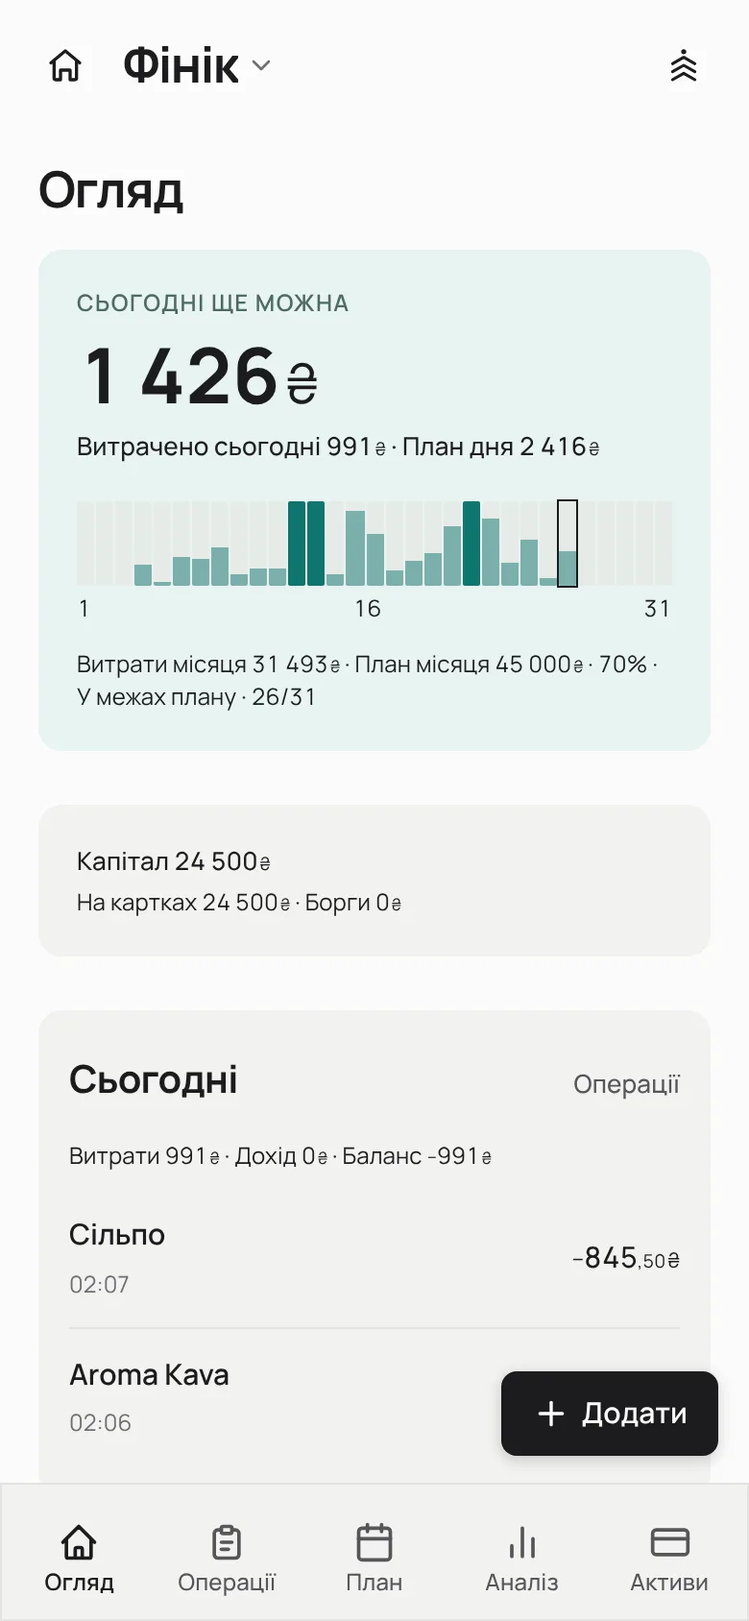
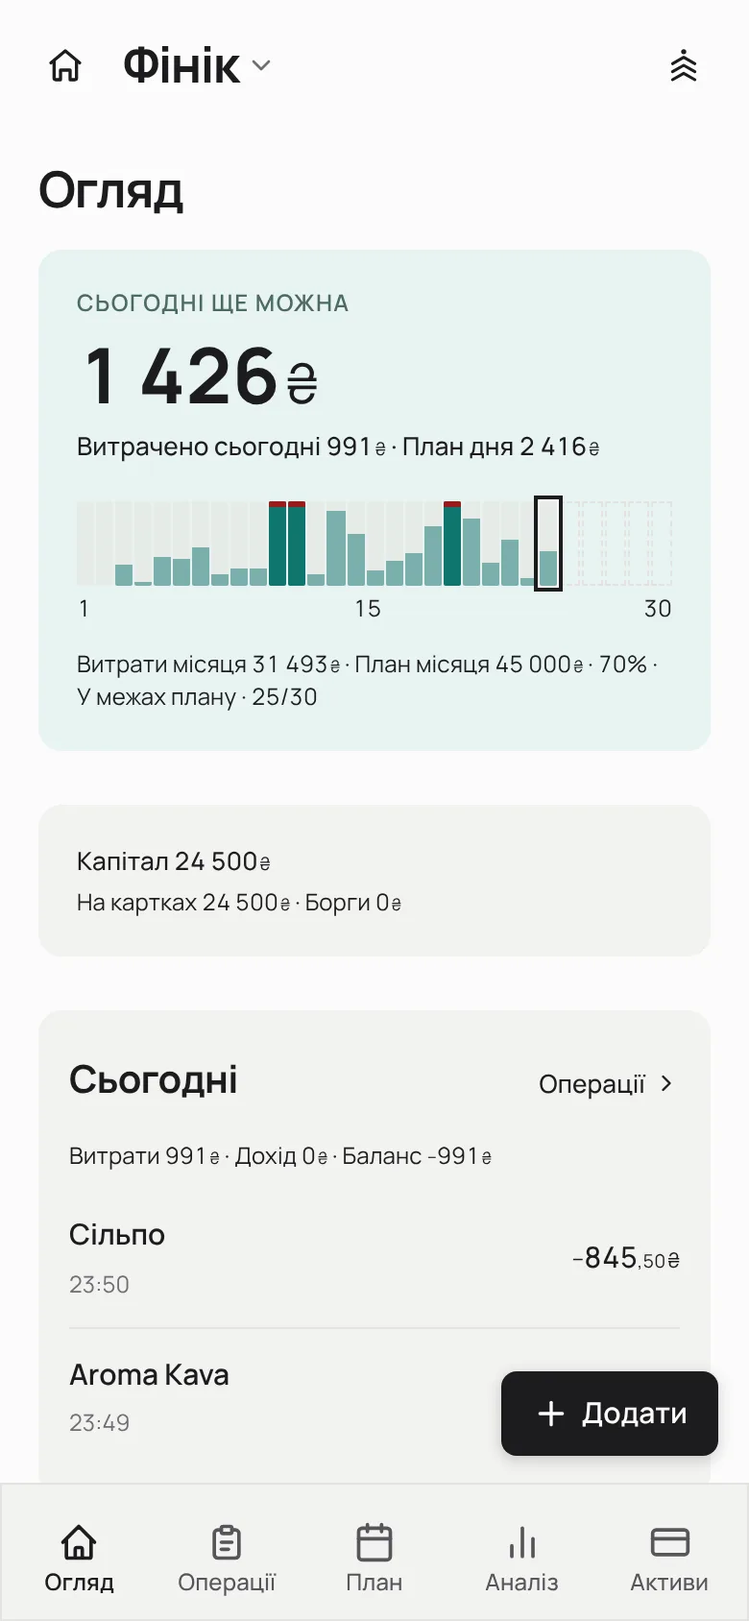
docs(docs): «ШІ» в глосарії стайлгайду і свіжі кадри hero лендингу
Глосарій §11: штучний інтелект у копії — «ШІ» (рішення власника
2026-11-25), SEO-виняток для title/description і llms.txt лишається.
Кадри hero-finyk і hero-routine перезнято після #1724/#1726; сценарій
ховає кнопку черги синхронізації, якої в живого користувача немає.

Claude-Session: https://claude.ai/code/session_01VCCW6nnMCoHBk2YFs5cpD4

diff --git a/apps/web/tests/__shots__/landing.spec.ts b/apps/web/tests/__shots__/landing.spec.ts
@@ -24,6 +24,20 @@ async function dropAnonymousBanner(page: Page) {
     .evaluateAll((els) => els.forEach((el) => el.remove()));
 }
 
+/**
+ * Сід світу пишеться в чергу синхронізації, а бекенду в знімальному прогоні
+ * немає, тож у шапці висить кнопка «Синхронізація · N в черзі». У живого
+ * користувача черга порожня, і кнопки там немає.
+ */
+async function dropSyncQueueButton(page: Page) {
+  // Стилем, а не видаленням вузла: шапка перемальовує кнопку при кожному
+  // тіку черги, і видалений вузол повертається ще до кадру.
+  await page.addStyleTag({
+    content:
+      'button[aria-label^="Синхронізація"] { display: none !important; }',
+  });
+}
+
 /** Огляд Фініка із заданим планом: без плану hero показує «Денний бюджет не задано». */
 async function finykWithPlan(page: Page) {
   await applyScenario(page, "landing-world", "/finyk/budgets");
@@ -51,6 +65,7 @@ for (const [name, open] of FRAMES) {
     const decline = page.getByRole("button", { name: "Ні, дякую" });
     if (await decline.isVisible().catch(() => false)) await decline.click();
     await dropAnonymousBanner(page);
+    await dropSyncQueueButton(page);
     await page.waitForTimeout(1500);
     const png = await page.screenshot();
     await sharp(png).webp({ quality: 82 }).toFile(`${OUT}/${name}.webp`);

diff --git a/docs/open-work.md b/docs/open-work.md
@@ -11,9 +11,9 @@
 
 **Колонки.** `Документ` — шлях відносно директорії трекера. `Статус` — повний текст `Status:` хедера (truncated до 180 символів; `❓` = `unknown` бакет, треба полагодити header). `PR-згадки` — auto-extracted `#NNNN` згадки (3–5 цифр, без провідного нуля, не приклеєні до сусідніх літер/цифр — тож hex-кольори `#14100e`, якорі `file.md#141-…` і zero-padded мітки `PR #052b` сюди не потрапляють; deduped, sorted ascending, перші 10 показано). Це навігаційні згадки з документа, не live-стан GitHub PR. Ініціативи й Plans мають додатково: `Agent-ready` (🟢 yes / 🟡 needs-decision / 🔴 blocked — рядки сортуються `yes` → `needs-decision` → `blocked`), `Skill` (canonical Sergeant specialist skill) і `Playbook` (best-fit playbook). Останні дві — heuristic suggestions з [`scripts/docs/skill-mapping.json`](../scripts/docs/skill-mapping.json), editable вручну.
 
-**Усього відкритих документів:** **51** — Активні спеки: **51**.
+**Усього відкритих документів:** **52** — Активні спеки: **52**.
 
-## Активні спеки (51)
+## Активні спеки (52)
 
 > Єдиний каталог активної роботи; підкаталоги зберігають жанр і предметну область.
 
@@ -21,7 +21,7 @@
 | ----------------------------------------------------------------------------------------------------------------------- | ------------------------------------------------------------------------------------------------------------------------------------------------------------------------------------- | --------------------------------------------------------------------------------------------------------------------------------------------------------------------------------------------------------------------------------------------------------------------------------------------------------------------------------------------------------------------------------------------------------------------------------------------------------------------------------------------------------------------------------------------------------------------------------------------- |
 | [`accessibility-low-vision-beta.md`](./work/specs/accessibility-low-vision-beta.md)                                     | Active — база готова, лишились ручна перевірка на пристроях і виявлені нею фікси.                                                                                                     | [#519](https://github.com/Skords-01/Sergeant/pull/519)                                                                                                                                                                                                                                                                                                                                                                                                                                                                                                                                        |
 | [`ai-cost-ceiling.md`](./work/specs/ai-cost-ceiling.md)                                                                 | Active (Ф1 виконано 2026-10-01 з відкритим питанням до сирого payload-у; Ф2 чекає тиждень після деплою; Ф3 заблокована числом із Ф2)                                                  | —                                                                                                                                                                                                                                                                                                                                                                                                                                                                                                                                                                                             |
-| [`anonymous-migration-fast-path.md`](./work/specs/anonymous-migration-fast-path.md)                                     | Active - затверджено рішенням власника 2026-11-21: усі блокери Q1-Q6 закрито (див. § Блокери). Наступна дія: PR2 (шар даних варіанта B), потім окремим PR3 (швидкий шлях гейта).      | [#1415](https://github.com/Skords-01/Sergeant/pull/1415) [#1417](https://github.com/Skords-01/Sergeant/pull/1417)                                                                                                                                                                                                                                                                                                                                                                                                                                                                             |
+| [`anonymous-migration-fast-path.md`](./work/specs/anonymous-migration-fast-path.md)                                     | Active - затверджено рішенням власника 2026-11-21. PR1 (preflight) і PR2 (прапорець у тіньовому режимі) у коді, див. § Стан виконання. Наступна дія: PR3 (швидкий шлях гейта), лише…  | [#1415](https://github.com/Skords-01/Sergeant/pull/1415) [#1417](https://github.com/Skords-01/Sergeant/pull/1417)                                                                                                                                                                                                                                                                                                                                                                                                                                                                             |
 | [`audits/2026-07-31-legal-docs-beta-readiness.md`](./work/specs/audits/2026-07-31-legal-docs-beta-readiness.md)         | Active                                                                                                                                                                                | —                                                                                                                                                                                                                                                                                                                                                                                                                                                                                                                                                                                             |
 | [`audits/2026-08-05-external-critique-surface.md`](./work/specs/audits/2026-08-05-external-critique-surface.md)         | Active                                                                                                                                                                                | [#635](https://github.com/Skords-01/Sergeant/pull/635) [#887](https://github.com/Skords-01/Sergeant/pull/887)                                                                                                                                                                                                                                                                                                                                                                                                                                                                                 |
 | [`audits/2026-08-05-lost-commits-audit.md`](./work/specs/audits/2026-08-05-lost-commits-audit.md)                       | Active — у §3 відкриті `CMP-74`, хвиля 18, `claude/spec-fab-manual-income` і §3.3; після їх закриття перевести у Reference.                                                           | [#308](https://github.com/Skords-01/Sergeant/pull/308) [#309](https://github.com/Skords-01/Sergeant/pull/309) [#324](https://github.com/Skords-01/Sergeant/pull/324) [#419](https://github.com/Skords-01/Sergeant/pull/419) [#420](https://github.com/Skords-01/Sergeant/pull/420) [#562](https://github.com/Skords-01/Sergeant/pull/562) [#567](https://github.com/Skords-01/Sergeant/pull/567) [#571](https://github.com/Skords-01/Sergeant/pull/571) [#594](https://github.com/Skords-01/Sergeant/pull/594)                                                                                |
@@ -36,6 +36,7 @@
 | [`audits/2026-10-01-full-app-audit/reliability.md`](./work/specs/audits/2026-10-01-full-app-audit/reliability.md)       | Active. 64 кластери (91 знахідка) за першопричиною. Загальний план, метод і обмеження — у [README](./work/specs/audits/2026-10-01-full-app-audit/README.md).                          | [#1333](https://github.com/Skords-01/Sergeant/pull/1333) [#1334](https://github.com/Skords-01/Sergeant/pull/1334) [#1347](https://github.com/Skords-01/Sergeant/pull/1347) [#1348](https://github.com/Skords-01/Sergeant/pull/1348) [#1372](https://github.com/Skords-01/Sergeant/pull/1372) [#1387](https://github.com/Skords-01/Sergeant/pull/1387) [#1388](https://github.com/Skords-01/Sergeant/pull/1388) [#1389](https://github.com/Skords-01/Sergeant/pull/1389) [#1393](https://github.com/Skords-01/Sergeant/pull/1393) [#1396](https://github.com/Skords-01/Sergeant/pull/1396) +21 |
 | [`audits/2026-10-01-full-app-audit/security.md`](./work/specs/audits/2026-10-01-full-app-audit/security.md)             | Active. 63 кластери (97 знахідок) за першопричиною. Загальний план, метод і обмеження — у [README](./work/specs/audits/2026-10-01-full-app-audit/README.md).                          | [#1308](https://github.com/Skords-01/Sergeant/pull/1308) [#1327](https://github.com/Skords-01/Sergeant/pull/1327) [#1329](https://github.com/Skords-01/Sergeant/pull/1329) [#1332](https://github.com/Skords-01/Sergeant/pull/1332) [#1340](https://github.com/Skords-01/Sergeant/pull/1340) [#1346](https://github.com/Skords-01/Sergeant/pull/1346) [#1347](https://github.com/Skords-01/Sergeant/pull/1347) [#1350](https://github.com/Skords-01/Sergeant/pull/1350) [#1365](https://github.com/Skords-01/Sergeant/pull/1365) [#1366](https://github.com/Skords-01/Sergeant/pull/1366) +10 |
 | [`audits/2026-10-01-full-app-audit/ux-a11y.md`](./work/specs/audits/2026-10-01-full-app-audit/ux-a11y.md)               | Active. 89 кластерів (125 знахідок) за першопричиною. Загальний план, метод і обмеження — у [README](./work/specs/audits/2026-10-01-full-app-audit/README.md).                        | [#1314](https://github.com/Skords-01/Sergeant/pull/1314) [#1370](https://github.com/Skords-01/Sergeant/pull/1370) [#1406](https://github.com/Skords-01/Sergeant/pull/1406) [#1409](https://github.com/Skords-01/Sergeant/pull/1409) [#1410](https://github.com/Skords-01/Sergeant/pull/1410) [#1411](https://github.com/Skords-01/Sergeant/pull/1411) [#1412](https://github.com/Skords-01/Sergeant/pull/1412) [#1448](https://github.com/Skords-01/Sergeant/pull/1448) [#1449](https://github.com/Skords-01/Sergeant/pull/1449) [#1470](https://github.com/Skords-01/Sergeant/pull/1470) +10 |
+| [`audits/2026-11-25-copy-visual-audit.md`](./work/specs/audits/2026-11-25-copy-visual-audit.md)                         | Draft                                                                                                                                                                                 | [#1724](https://github.com/Skords-01/Sergeant/pull/1724)                                                                                                                                                                                                                                                                                                                                                                                                                                                                                                                                      |
 | [`audits/ai-abuse-2026-08-05.md`](./work/specs/audits/ai-abuse-2026-08-05.md)                                           | Active - A5 відкладено (рішення власника 2026-11-21): перемикач `ANTHROPIC_BUDGET_HARD_DEGRADE_ALL` і денний ліміт Pro чекають числа з фази 2 [`ai-cost-ceiling.md`](./work/specs/a…  | —                                                                                                                                                                                                                                                                                                                                                                                                                                                                                                                                                                                             |
 | [`audits/ai-pipeline-2026-08-05.md`](./work/specs/audits/ai-pipeline-2026-08-05.md)                                     | Active - Наступна дія: ревалідувати B4-B29 проти `main` і позначити закриті (пріоритет B26, B25, B27; B13 і B14, схоже, вже закриті; B21 закрито 2026-09-29, див. § B21).             | [#627](https://github.com/Skords-01/Sergeant/pull/627) [#928](https://github.com/Skords-01/Sergeant/pull/928)                                                                                                                                                                                                                                                                                                                                                                                                                                                                                 |
 | [`audits/ai-testing-2026-08-25.md`](./work/specs/audits/ai-testing-2026-08-25.md)                                       | Active - усі 11 знахідок цього аудиту в реєстрі закрито кодом (`fixed-pending-verification`), живого перепрогону стендів немає.                                                       | [#858](https://github.com/Skords-01/Sergeant/pull/858)                                                                                                                                                                                                                                                                                                                                                                                                                                                                                                                                        |

diff --git a/docs/product/copy/style-guide.uk.md b/docs/product/copy/style-guide.uk.md
@@ -1,6 +1,6 @@
 # Sergeant — Content Style Guide (UA)
 
-> **Last touched:** 2026-11-21 by @claude (§2: листи від компанії говорять «ми», рішення власника 2026-11-21, TXT-5); 2026-10-09 by @claude (редизайн v3 PR0: §9 заголовок не питання, плейсхолдер лише голий іменник; раніше 2026-09-17: §7 + десять рядків з аудиту копії сайту: заяви про чесність, антитези, максими, метатекст, інженерні деталі, changelog, підсилювачі, ехо «той самий», заголовки-лічильники, вигадані цитати; §1.9 — абзац про тире-поворот; того ж дня раніше — вказівники «винеси в `uk.ts`» → `uk.core.ts` / модульний `uk.<module>.ts`; §8 «час дня» розведено на показ/звіти = Kyiv і день-ключ/форми = пристрій за ADR-0078; 2026-09-16 — перегляд по секціях проти `uk.core.ts` і лінтів `ukrainian-copy` / `no-cyrillic-jsx-literal`, приклади приведено до власних правил 9–10). **Next review:** 2026-12-16.
+> **Last touched:** 2026-11-25 by @claude (§11: штучний інтелект у копії — «ШІ», не «AI», рішення власника 2026-11-25); 2026-11-21 by @claude (§2: листи від компанії говорять «ми», рішення власника 2026-11-21, TXT-5); 2026-10-09 by @claude (редизайн v3 PR0: §9 заголовок не питання, плейсхолдер лише голий іменник; раніше 2026-09-17: §7 + десять рядків з аудиту копії сайту: заяви про чесність, антитези, максими, метатекст, інженерні деталі, changelog, підсилювачі, ехо «той самий», заголовки-лічильники, вигадані цитати; §1.9 — абзац про тире-поворот; того ж дня раніше — вказівники «винеси в `uk.ts`» → `uk.core.ts` / модульний `uk.<module>.ts`; §8 «час дня» розведено на показ/звіти = Kyiv і день-ключ/форми = пристрій за ADR-0078; 2026-09-16 — перегляд по секціях проти `uk.core.ts` і лінтів `ukrainian-copy` / `no-cyrillic-jsx-literal`, приклади приведено до власних правил 9–10). **Next review:** 2026-12-16.
 > **Status:** Active
 
 Канонічні правила tone-of-voice для всієї UA-копії в продукті — UI strings, toast-и, error messages, empty states, onboarding, FTUX, settings. Витяг із i18n-каталогу `apps/web/src/shared/i18n/uk.ts` (PR-30 / PR-31 — uxroast 2026-Q2; з 2026-09-12 каталог розкладено на `uk.core.ts` + модульні `uk.<module>.ts`, `uk.ts` їх лише зшиває) + урок-кейси з аудит-проходів.
@@ -292,8 +292,8 @@ states) лишаються на «я».
 
 | Сутність                          | Слово в UI                                                                                                                                                       | Не вживати / примітка                                                                                                                                                                                                                                                                                                                                                                                                          |
 | --------------------------------- | ---------------------------------------------------------------------------------------------------------------------------------------------------------------- | ------------------------------------------------------------------------------------------------------------------------------------------------------------------------------------------------------------------------------------------------------------------------------------------------------------------------------------------------------------------------------------------------------------------------------ |
-| Штучний інтелект                  | **AI** (латиницею)                                                                                                                                               | «ШІ». Канонічний рядок авторства: «Відповідає AI, а не людина».                                                                                                                                                                                                                                                                                                                                                                |
-| Асистент як дійова особа          | **Сержант**                                                                                                                                                      | «асистент», «AI-асистент», «AI-помічник». Латиниця «Sergeant» лише як назва продукту (застосунок, база, сесія, вкладки), не як той, хто щось робить: «Сержант покаже», але «база Sergeant». Звʼязки між сферами рахує застосунок без AI, тож там дійова особа «застосунок», а не «Сержант». На сайті «AI-помічник» лишається лише в title і description маршрутів і в `llms.txt` як SEO-виняток (рішення власника 2026-09-26). |
+| Штучний інтелект                  | **ШІ**                                                                                                                                                           | «AI» латиницею (рішення власника 2026-11-25 замінило рішення 2026-09-24). Канонічний рядок авторства: «Відповідає ШІ, не людина». Складені форми: «провайдер ШІ», «памʼять ШІ», «скани чеків ШІ». Виняток лише SEO: title і description маршрутів сайту та `llms.txt`, де люди шукають «AI».                                                                                                                                   |
+| Асистент як дійова особа          | **Сержант**                                                                                                                                                      | «асистент», «ШІ-асистент», «AI-помічник». Латиниця «Sergeant» лише як назва продукту (застосунок, база, сесія, вкладки), не як той, хто щось робить: «Сержант покаже», але «база Sergeant». Звʼязки між сферами рахує застосунок без AI, тож там дійова особа «застосунок», а не «Сержант». На сайті «AI-помічник» лишається лише в title і description маршрутів і в `llms.txt` як SEO-виняток (рішення власника 2026-09-26). |
 | Оплата                            | **план** = те, що обираєш («безкоштовний план», «Premium»); **підписка** = те, що платиш і скасовуєш                                                             | «тариф». Склад Premium на сайті береться з `apps/landing/src/content/premiumClaim.ts`.                                                                                                                                                                                                                                                                                                                                         |
 | Тижневий звіт                     | **звіт тижня**                                                                                                                                                   | «дайджест» лишається тільки назвою формату сторіс, не синонімом звіту. «Тижневий підсумок» не вживати і на сайті (адреса гайду `/guides/tyzhnevyi-pidsumok` лишається).                                                                                                                                                                                                                                                        |
 | Рядок у списку Фініка             | **операція** (список, порожні стани, кнопки)                                                                                                                     | «запис», «транзакція». Зведено 2026-09-25 скрізь, де текст бачить людина, включно з банківським контекстом і результатами інструментів чату. З 2026-09-25 так само кажуть описи інструментів і промпти для моделі; «транзакція» лишається лише в SQL, у репліках користувача в евал-кейсах і в пошукових ключових словах (як синонім). Прикметник «транзакційні» (листи) означає інше і не міняється.                          |

diff --git a/docs/STATUS.md b/docs/STATUS.md
@@ -33,11 +33,11 @@
 - [#78](https://bitbucket.org/skords01/sergeant/pull-requests/78) — fix(web): копі сайту за аудитом: глосарій, жаргон, факт у Політиці приватності _(2026-09-26)_
 - [#61](https://bitbucket.org/skords01/sergeant/pull-requests/61) — docs(docs): синк реєстру PR (#41-#64) _(2026-09-26)_
 
-## 🔵 В роботі — 51 відкритий документ
+## 🔵 В роботі — 52 відкриті документи
 
 | Трекер        | Відкрито |
 | ------------- | -------- |
-| Активні спеки | 51       |
+| Активні спеки | 52       |
 
 **Найактивніше (8, за останніми PR):**
 

diff --git a/apps/web/tests/__shots__/README.md b/apps/web/tests/__shots__/README.md
@@ -47,4 +47,4 @@ pnpm --filter @sergeant/web exec playwright test --config playwright.shots.confi
 ```
 
 - `LANDING_OUT` - тека запису, за замовчуванням `../landing/public/screens`.
-- Світ анонімний, тож сценарій прибирає з кадру банер «Дані лише на цьому пристрої»; решта екрана без правок.
+- Світ анонімний і без бекенду, тож сценарій прибирає з кадру банер «Дані лише на цьому пристрої» і кнопку черги синхронізації; решта екрана без правок.
